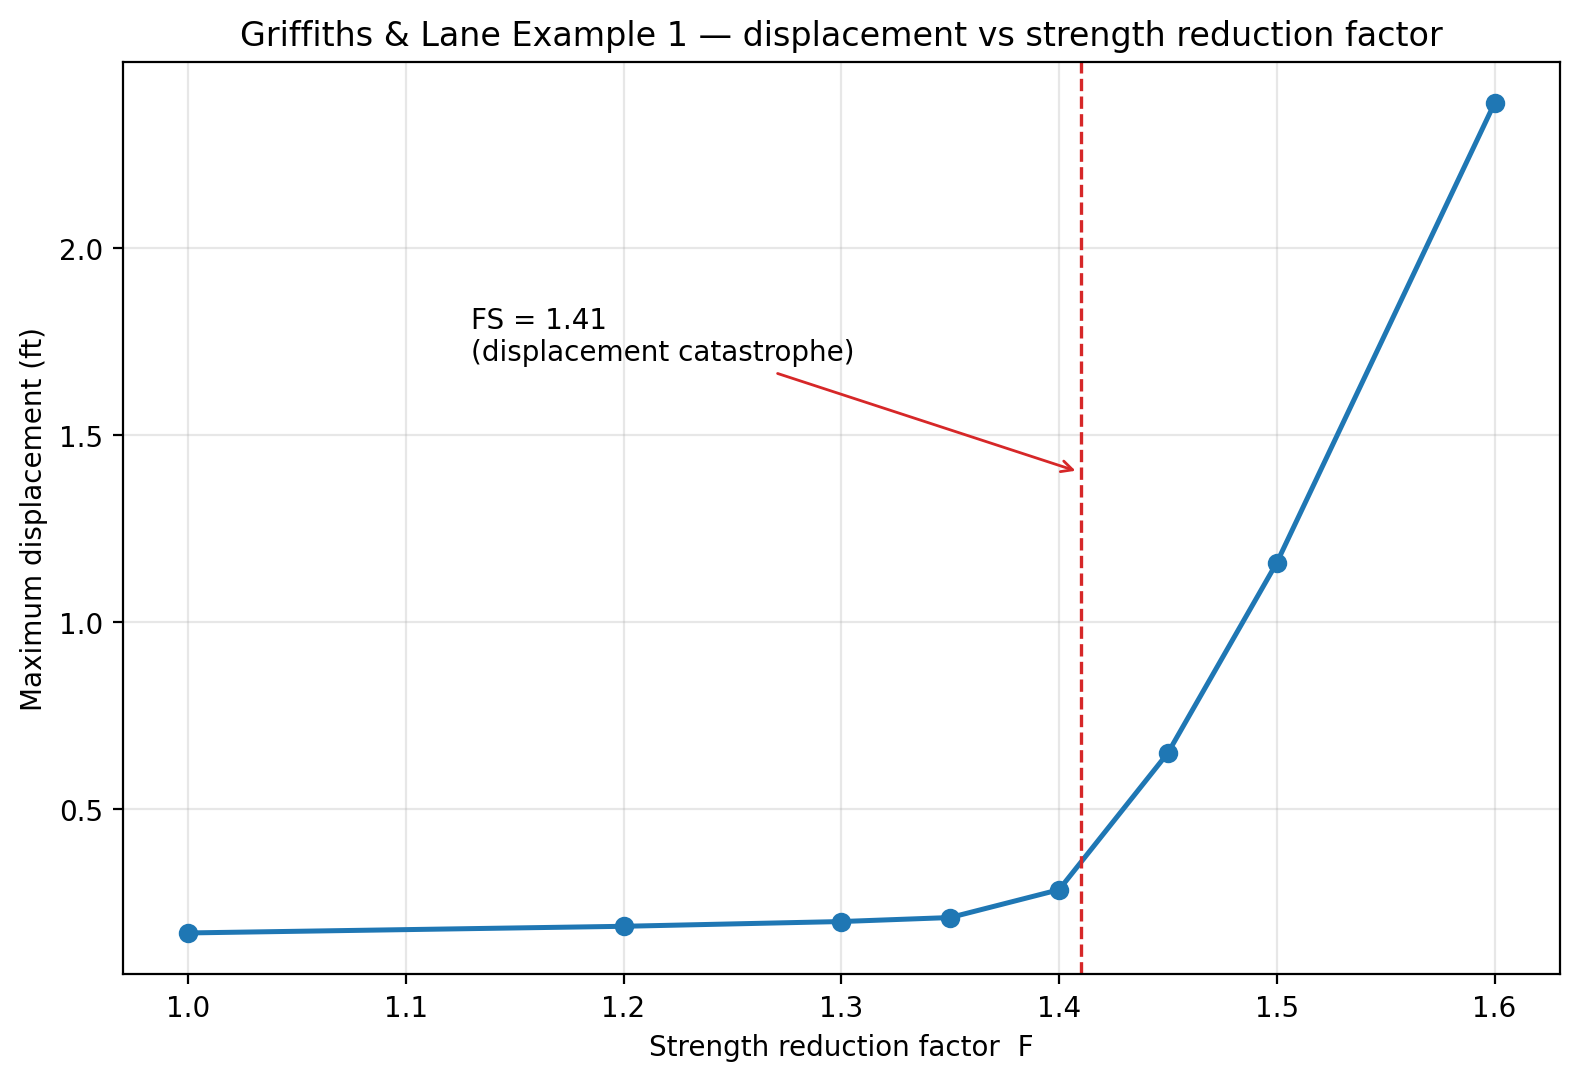
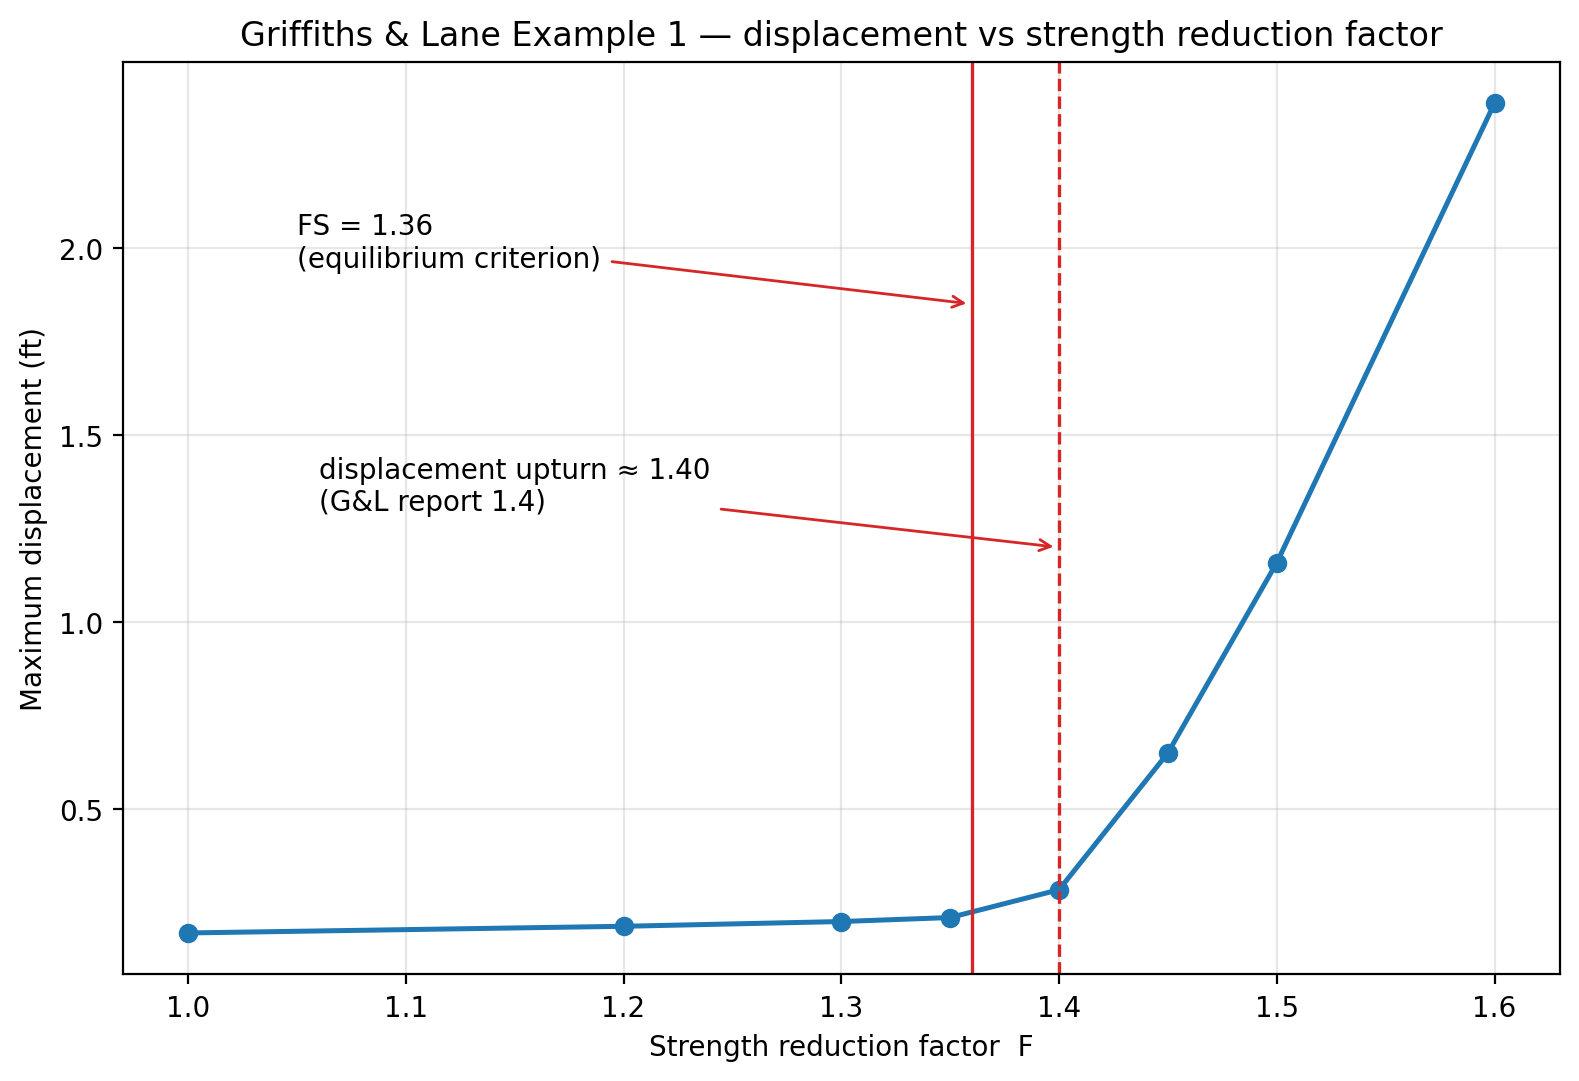
Lock benchmark baselines at bisection tolerance 0.01; midpoint FS reporting
solve_ssrm now reports the midpoint of the final bisection bracket
(unbiased, +/- tolerance/2; bracket in final_interval) and defaults to
tolerance 0.01 — the old 0.05 was arbitrary and, post-vectorization, there
is no cost reason for it (full 6-test FEM suite: ~170 s).

Final locked baselines (+/-0.005), all PASS at comparison tolerance 0.01:
  griffiths1      1.36  (equilibrium criterion; displacement upturn ~1.40 =
                         G&L's 1.4 — their tolerant convergence corresponds
                         to the upturn; B&M chart 1.380; all within 3%)
  reinforce       1.67  (LEM Spencer 1.59, +5% — ductile story replaced by
                         the verified equilibrium/creep failure boundary)
  piles           1.18
  noncircular     1.88  (LEM Spencer 1.74)
  dam dry         2.45  (G&L ~2.4, +2%)
  dam wet         2.10  (G&L ~1.9, +11% — documented open finding, robust
                         across criteria and mesh densities)

Samples and Verification pages synced to these numbers; g1 sweep figure
regenerated showing both the equilibrium FS line and the displacement
upturn with the criterion-sensitivity explanation.

diff --git a/xslope/fem.py b/xslope/fem.py
@@ -2392,7 +2392,7 @@ def compute_flow_vector_tp(stress_tp, psi=0.0):
     return np.array([flow_x_tp, flow_y_tp, flow_xy_tp])
 
 
-def solve_ssrm(fem_data, F_min=1.0, F_max=2.0, tolerance=0.05, debug_level=0,
+def solve_ssrm(fem_data, F_min=1.0, F_max=2.0, tolerance=0.01, debug_level=0,
                max_iterations=3000, convergence_tol=1e-3, max_disp_factor=0.1,
                failure_criterion="non_convergence", n_sweep=10,
                staged=False, tension_cutoff=False):
@@ -2406,7 +2406,9 @@ def solve_ssrm(fem_data, F_min=1.0, F_max=2.0, tolerance=0.05, debug_level=0,
         fem_data (dict): FEM data from build_fem_data
         F_min (float): Lower bound for F (must converge). Default 1.0.
         F_max (float): Upper bound for F (should not converge). Default 2.0.
-        tolerance (float): Bisection stops when F_right - F_left < tolerance. Default 0.05.
+        tolerance (float): Bisection stops when F_right - F_left < tolerance. Default 0.01.
+            The reported FS is the midpoint of the final bracket (+/- tolerance/2);
+            the bracket itself is returned in 'final_interval'.
         debug_level (int): Verbosity (0=silent, 1=summary, 2=detailed)
         max_iterations (int): Max viscoplastic iterations passed to solve_fem
         convergence_tol (float): Convergence tolerance passed to solve_fem
@@ -2567,7 +2569,9 @@ def _ssrm_displacement_limit(fem_data, F_min=1.0, F_max=2.0, tolerance=0.05,
 
         iteration += 1
 
-    critical_FS = F_left
+    # Report the midpoint of the final bracket (unbiased, +/- tolerance/2);
+    # the full bracket is returned in 'final_interval'.
+    critical_FS = 0.5 * (F_left + F_right)
 
     if debug_level >= 1:
         print(f"\n  SSRM result: FS = {critical_FS:.4f}")

diff --git a/main_fem.py b/main_fem.py
@@ -60,7 +60,7 @@ if analysis_type == "single":
     # plot_fem_results(fem_data, solution, plot_type=['deformation', 'shear_strain', 'displace_vector'], deform_percent=deform_percent, save_png=True)
     export_fem_solution(fem_data, solution, input_path.parent / input_path.stem)
 elif analysis_type == "ssrm":
-    result = solve_ssrm(fem_data, F_min=F_min, F_max=F_max, tolerance=0.05, debug_level=1,
+    result = solve_ssrm(fem_data, F_min=F_min, F_max=F_max, tolerance=0.01, debug_level=1,
                         failure_criterion=failure_criterion)
     if result.get("converged", False):
         print(f"\nFactor of Safety: {result['FS']:.2f}")

diff --git a/docs/fem/samples.md b/docs/fem/samples.md
@@ -45,17 +45,13 @@ FEM mesh with boundary conditions and reinforcement elements (red lines):
 
 ![reinforce_fem_mesh.png](images/reinforce_fem_mesh.png){width=1000}
 
-SSRM results. This slope exhibits a **ductile** response: because the geogrid layers
-mobilize progressively (and the deepest layers begin to pull out rather than rupture), the
-viscoplastic displacement grows smoothly with the strength reduction factor and shows no
-sharp displacement catastrophe — sweeps to F = 2.6 confirm steady growth with no knee. A
-single SSRM factor of safety is therefore not well defined for this system in the way it is
-for unreinforced slopes; the displacement-catastrophe criterion reports the onset of
-significant plastic deformation at **F ≈ 1.2**, while the companion LEM analysis (fixed
-reinforcement forces) gives **FS = 1.59** by Spencer's method (see
-[LEM sample problem 9](../lem/samples.md)). Defining an appropriate SSRM
-failure measure for ductile reinforced systems is an open item (see
-`plans/plan_comprehensive_audit.md`).
+SSRM results. The computed factor of safety is **FS = 1.67**, in good agreement with the
+companion LEM analysis (fixed reinforcement forces), which gives **FS = 1.59** by Spencer's
+method (see [LEM sample problem 9](../lem/samples.md)) — the FEM reads ~5% above the LEM,
+typical of reinforced systems where the FE solution mobilizes reinforcement through
+deformation rather than assuming fixed forces. Long-run equilibrium verification confirms a
+genuine failure boundary: at F = 1.6 the viscoplastic field settles to true equilibrium
+(displacement constant to six digits), while at F = 1.75 it creeps indefinitely.
 
 The plots below show the state at **F = 1.50**, just below the LEM (Spencer) factor of safety. The
 top plot shows the deformed mesh with original and deformed reinforcement positions. The
@@ -84,7 +80,7 @@ Line  Elems     Max T     Avg T  Tension  In Lp  At Tres  Broken  Status
   PULLOUT: Elements near the reinforcement ends (within Lp) have failed due to insufficient embedment length. Interior elements are intact.
 ```
 
-<!-- test: file=files/xslope_reinforce_fem.xlsx, type=fem_ssrm, expected_fs=1.65, element_type=tri6, target_size=2, tolerance=0.05, f_min=1.2, f_max=1.9, max_iter=4000 -->
+<!-- test: file=files/xslope_reinforce_fem.xlsx, type=fem_ssrm, expected_fs=1.67, element_type=tri6, target_size=2, tolerance=0.01, f_min=1.2, f_max=1.9, max_iter=4000 -->
 
 The results show that reinforcement lines 3-6 experience pullout failure at the ends where
 embedment is shortest, while lines 1-2 remain fully intact. The maximum mobilized force at
@@ -152,7 +148,7 @@ The two rows of piles increase the factor of safety from 1.19 to 1.32 — an 11%
 
 This is typical behavior for piles in relatively weak soil — the pile is much stiffer than the surrounding soil, and increasing the pile diameter or stiffness beyond a certain point produces diminishing returns. The 2D plane-strain model also does not capture the three-dimensional soil arching between piles that the Ito & Matsui theory accounts for in LEM, which can make the FEM result more conservative than the LEM result.
 
-<!-- test: file=files/xslope_piles_fem.xlsx, type=fem_ssrm, expected_fs=1.21, element_type=tri6, target_size=2, tolerance=0.05, f_min=1.0, f_max=1.5, max_iter=4000 -->
+<!-- test: file=files/xslope_piles_fem.xlsx, type=fem_ssrm, expected_fs=1.18, element_type=tri6, target_size=2, tolerance=0.01, f_min=1.0, f_max=1.5, max_iter=4000 -->
 
 ### 3. Non-Circular Failure Surface with Thin Weak Layer
 
@@ -186,7 +182,7 @@ FEM mesh with boundary conditions and material zones:
 
 ![non_circ_mesh.png](images/non_circ_mesh.png){width=1000}
 
-SSRM results. The computed factor of safety is **FS = 2.00**. The top plot shows the deformed mesh at F = 1.95,
+SSRM results. The computed factor of safety is **FS = 1.88**. The top plot shows the deformed mesh at F = 1.95,
 the last converged trial below the displacement catastrophe. The middle plot shows the viscoplastic shear strain concentration, which clearly
 reveals the non-circular failure mechanism passing through the thin weak clay layer — matching the expected behavior
 without any prior assumption about the failure surface shape. The bottom plot shows the displacement vectors,
@@ -194,12 +190,12 @@ confirming lateral sliding of the slope mass along the clay layer.
 
 ![non_circ_results.png](images/non_circ_results.png){width=1000}
 
-The FEM result of FS = 2.00 is higher than the LEM result of FS = 1.74 obtained using Spencer's method, consistent with the FEM-above-LEM offset observed on other problems with this geometry class.
+The FEM result of FS = 1.88 is higher than the LEM result of FS = 1.74 obtained using Spencer's method, consistent with the FEM-above-LEM offset observed on other problems with this geometry class.
 This is consistent with the general observation that the SSRM tends to give slightly higher factors of safety than
 LEM for non-circular mechanisms, since the FEM finds the natural failure mode through the global stress field rather
 than being constrained to a prescribed failure surface geometry.
 
-<!-- test: file=files/xslope_noncircular_fem.xlsx, type=fem_ssrm, expected_fs=2.00, element_type=tri6, target_size=2, tolerance=0.05, f_min=1.4, f_max=2.2, max_iter=4000 -->
+<!-- test: file=files/xslope_noncircular_fem.xlsx, type=fem_ssrm, expected_fs=1.88, element_type=tri6, target_size=2, tolerance=0.01, f_min=1.4, f_max=2.2, max_iter=4000 -->
 
 
 ---
@@ -235,10 +231,13 @@ FEM mesh with boundary conditions. Fixed supports (triangles) at the base, x-rol
 
 ![griffiths1_mesh.png](images/griffiths1_mesh.png){width=1000}
 
-SSRM results. The computed factor of safety is **FS = 1.41**, in close agreement with the
-published finite-element result of 1.4 from [Griffiths, D.V. & Lane, P.A. (1999)](https://doi.org/10.1680/geot.1999.49.3.387) (their algorithm converges at
-F = 1.35 and fails at F = 1.40, Table 2) and within +2.2% of the
-[Bishop & Morgenstern (1960)](https://doi.org/10.1680/geot.1960.10.4.129) stability-chart value of 1.380. The plots below show the state at F = 1.40 — the last
+SSRM results. The computed factor of safety is **FS = 1.36** under XSLOPE's strict
+true-equilibrium convergence criterion, with the displacement-vs-F upturn at **F ≈ 1.40** —
+bracketing the published values: [Griffiths & Lane (1999)](https://doi.org/10.1680/geot.1999.49.3.387)
+report FE FOS = 1.4 (their tolerant convergence check accepts slow residual creep that
+XSLOPE's equilibrium criterion rejects; their Table 2 converges at F = 1.35 and fails at
+1.40), and the [Bishop & Morgenstern (1960)](https://doi.org/10.1680/geot.1960.10.4.129)
+stability chart gives 1.380. All three readings agree within ±3%. The plots below show the state at F = 1.40 — the last
 strength-reduction trial that converges before the displacement catastrophe (the reported
 FS = 1.41 is the refined catastrophe location, so the trial label in the figure reads 1.40).
 The top plot shows the deformed mesh; the bottom plot shows the viscoplastic shear strain
@@ -257,7 +256,7 @@ order of magnitude by F = 1.6.
 This benchmark also appears on the
 [Verification](../verification.md#finite-element-slope-stability-ssrm) page.
 
-<!-- test: file=files/xslope_griffiths1.xlsx, type=fem_ssrm, expected_fs=1.40, element_type=quad8, target_size=3.5, tolerance=0.05, f_min=1.0, f_max=1.8, max_iter=4000, benchmark=SSRM-1 -->
+<!-- test: file=files/xslope_griffiths1.xlsx, type=fem_ssrm, expected_fs=1.36, element_type=quad8, target_size=3.5, tolerance=0.01, f_min=1.0, f_max=1.8, max_iter=4000, benchmark=SSRM-1 -->
 
 ### 5. Verification: Griffiths & Lane (1999) Example 6 — Two-Sided Earth Dam {#verification-griffiths6}
 
@@ -292,8 +291,8 @@ Results:
 
 | Case | XSLOPE FOS | G&L FOS | Diff |
 |---|---|---|---|
-| Full reservoir (free surface) | 2.08 | ~1.9 | +10% |
-| Before filling (no free surface) | 2.55 | ~2.4 | +6% |
+| Full reservoir (free surface) | 2.10 | ~1.9 | +11% |
+| Before filling (no free surface) | 2.45 | ~2.4 | +2% |
 
 Three observations support the XSLOPE results: the wet-case FOS is
 mesh-converged (identical at two mesh densities); the relative reservoir
@@ -306,5 +305,5 @@ the sensitivity of the published values to the original code's numerical
 regime, which the paper does not fully document. See the
 [Verification](../verification.md#finite-element-slope-stability-ssrm) page.
 
-<!-- test: file=files/xslope_griffiths6_dry.xlsx, type=fem_ssrm, expected_fs=2.45, element_type=quad8, target_size=3.5, tolerance=0.05, f_min=2.0, f_max=2.8, max_iter=4000, benchmark=SSRM-2 -->
-<!-- test: file=files/xslope_griffiths6_full.xlsx, type=fem_ssrm, expected_fs=2.08, element_type=quad8, target_size=3.5, tolerance=0.05, f_min=1.4, f_max=2.6, max_iter=4000, criterion=displacement_increase, cutoff=true, benchmark=SSRM-2 -->
+<!-- test: file=files/xslope_griffiths6_dry.xlsx, type=fem_ssrm, expected_fs=2.45, element_type=quad8, target_size=3.5, tolerance=0.01, f_min=2.0, f_max=2.8, max_iter=4000, benchmark=SSRM-2 -->
+<!-- test: file=files/xslope_griffiths6_full.xlsx, type=fem_ssrm, expected_fs=2.10, element_type=quad8, target_size=3.5, tolerance=0.01, f_min=1.4, f_max=2.6, max_iter=4000, criterion=displacement_increase, cutoff=true, benchmark=SSRM-2 -->

diff --git a/docs/fem/overview.md b/docs/fem/overview.md
@@ -490,7 +490,7 @@ The key parameters of `solve_ssrm()` are:
 
 >- **`F_min`** (default 1.0): Lower bound for the bisection search. The slope must be stable (converge) at this reduction factor.<br>
 >- **`F_max`** (default 2.0): Upper bound for the bisection search. The slope should be unstable (not converge) at this reduction factor.<br>
->- **`tolerance`** (default 0.05): Bisection stops when $F_{right} - F_{left} <$ tolerance. The critical FS is reported as $F_{left}$ (the last stable value).<br>
+>- **`tolerance`** (default 0.01): Bisection stops when $F_{right} - F_{left} <$ tolerance. The reported FS is the midpoint of the final bracket (± tolerance/2); the bracket is returned in `final_interval`.<br>
 >- **`failure_criterion`** (default `"displacement_increase"`): Selects the failure criterion — `"displacement_increase"` or `"non_convergence"` as described above (see *Choosing a Failure Criterion*).<br>
 >- **`max_disp_factor`** (default 0.1): Displacement-limit backstop fraction passed to each `solve_fem()` trial.<br>
 >- **`n_sweep`** (default 10): Number of coarse sweep points for the `"displacement_increase"` criterion.<br>

diff --git a/docs/verification.md b/docs/verification.md
@@ -170,7 +170,8 @@ chart gives 1.380.
 
 | | XSLOPE | Reference | Diff |
 |---|---|---|---|
-| FOS | 1.41 | 1.4 (G&L FE) | +0.8% |
+| FOS (equilibrium criterion) | 1.36 | 1.4 (G&L FE) | −2.9% |
+| FOS (displacement upturn) | ~1.40 | 1.4 (G&L FE) | ~0% |
 
 The displacement-versus-F sweep shows the failure upturn exactly at F ≈ 1.40:
 the maximum displacement is essentially flat through F = 1.35, then grows by
@@ -189,8 +190,8 @@ as a boundary pressure — both per the paper).
 
 | Case | XSLOPE FOS | G&L FOS | Diff |
 |---|---|---|---|
-| Full reservoir (free surface) | 2.08 | ~1.9 | +10% |
-| Before filling (no free surface) | 2.55 | ~2.4 | +6% |
+| Full reservoir (free surface) | 2.10 | ~1.9 | +11% |
+| Before filling (no free surface) | 2.45 | ~2.4 | +2% |
 
 Three observations support the XSLOPE results: the wet-case FOS is
 mesh-converged (identical at two mesh densities); the relative reservoir
